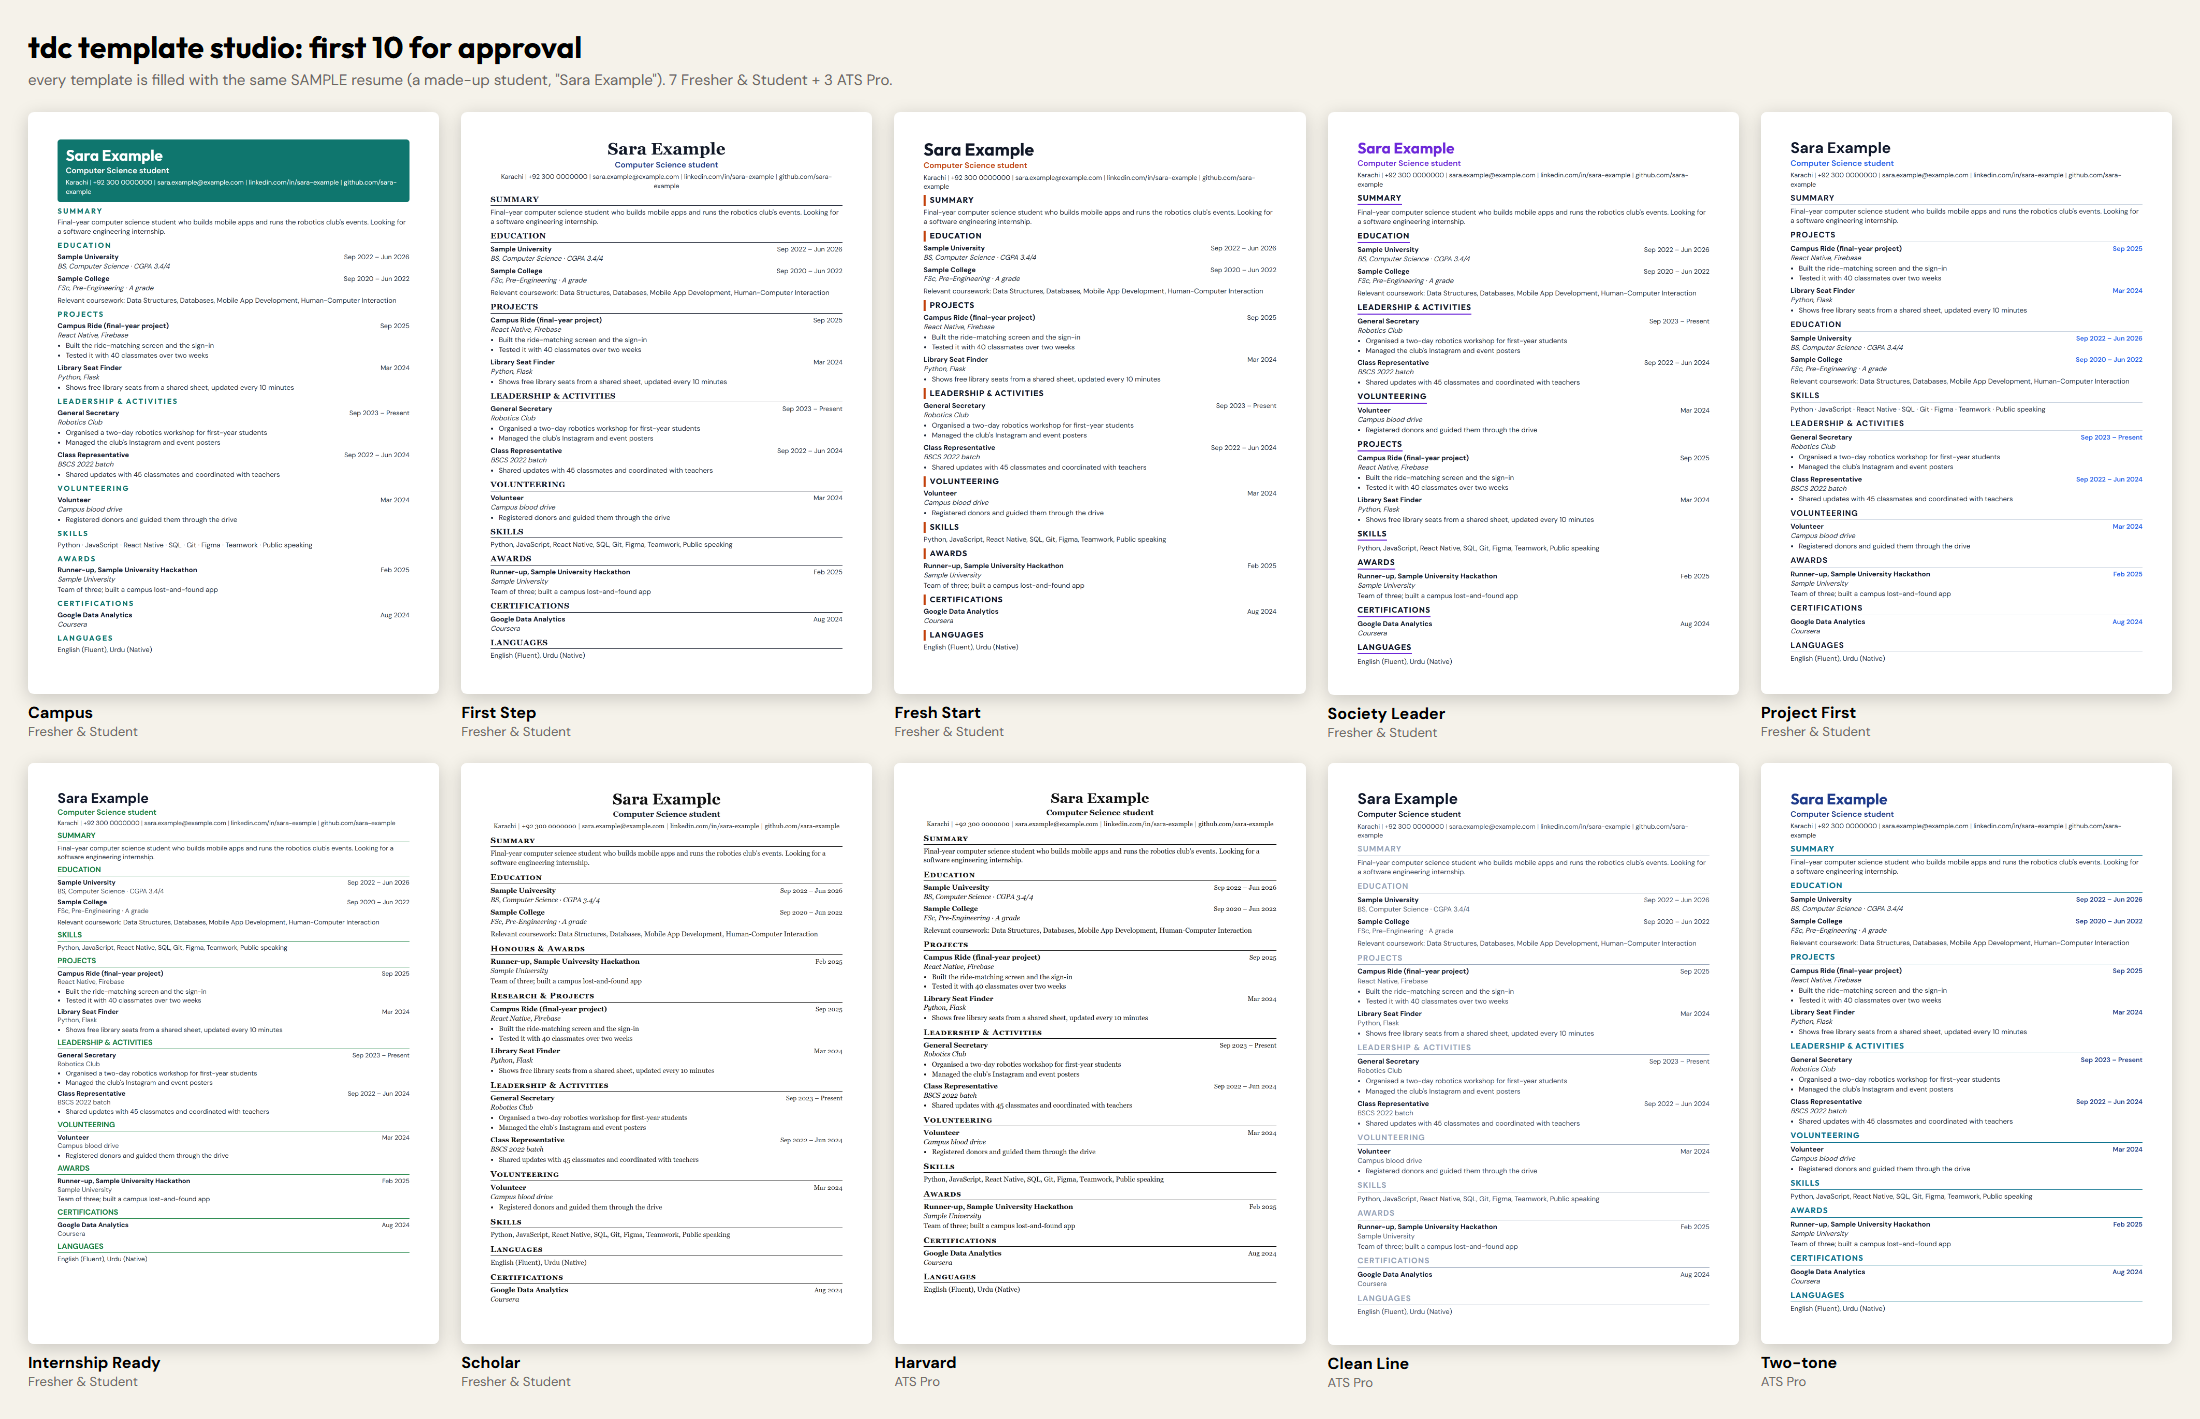
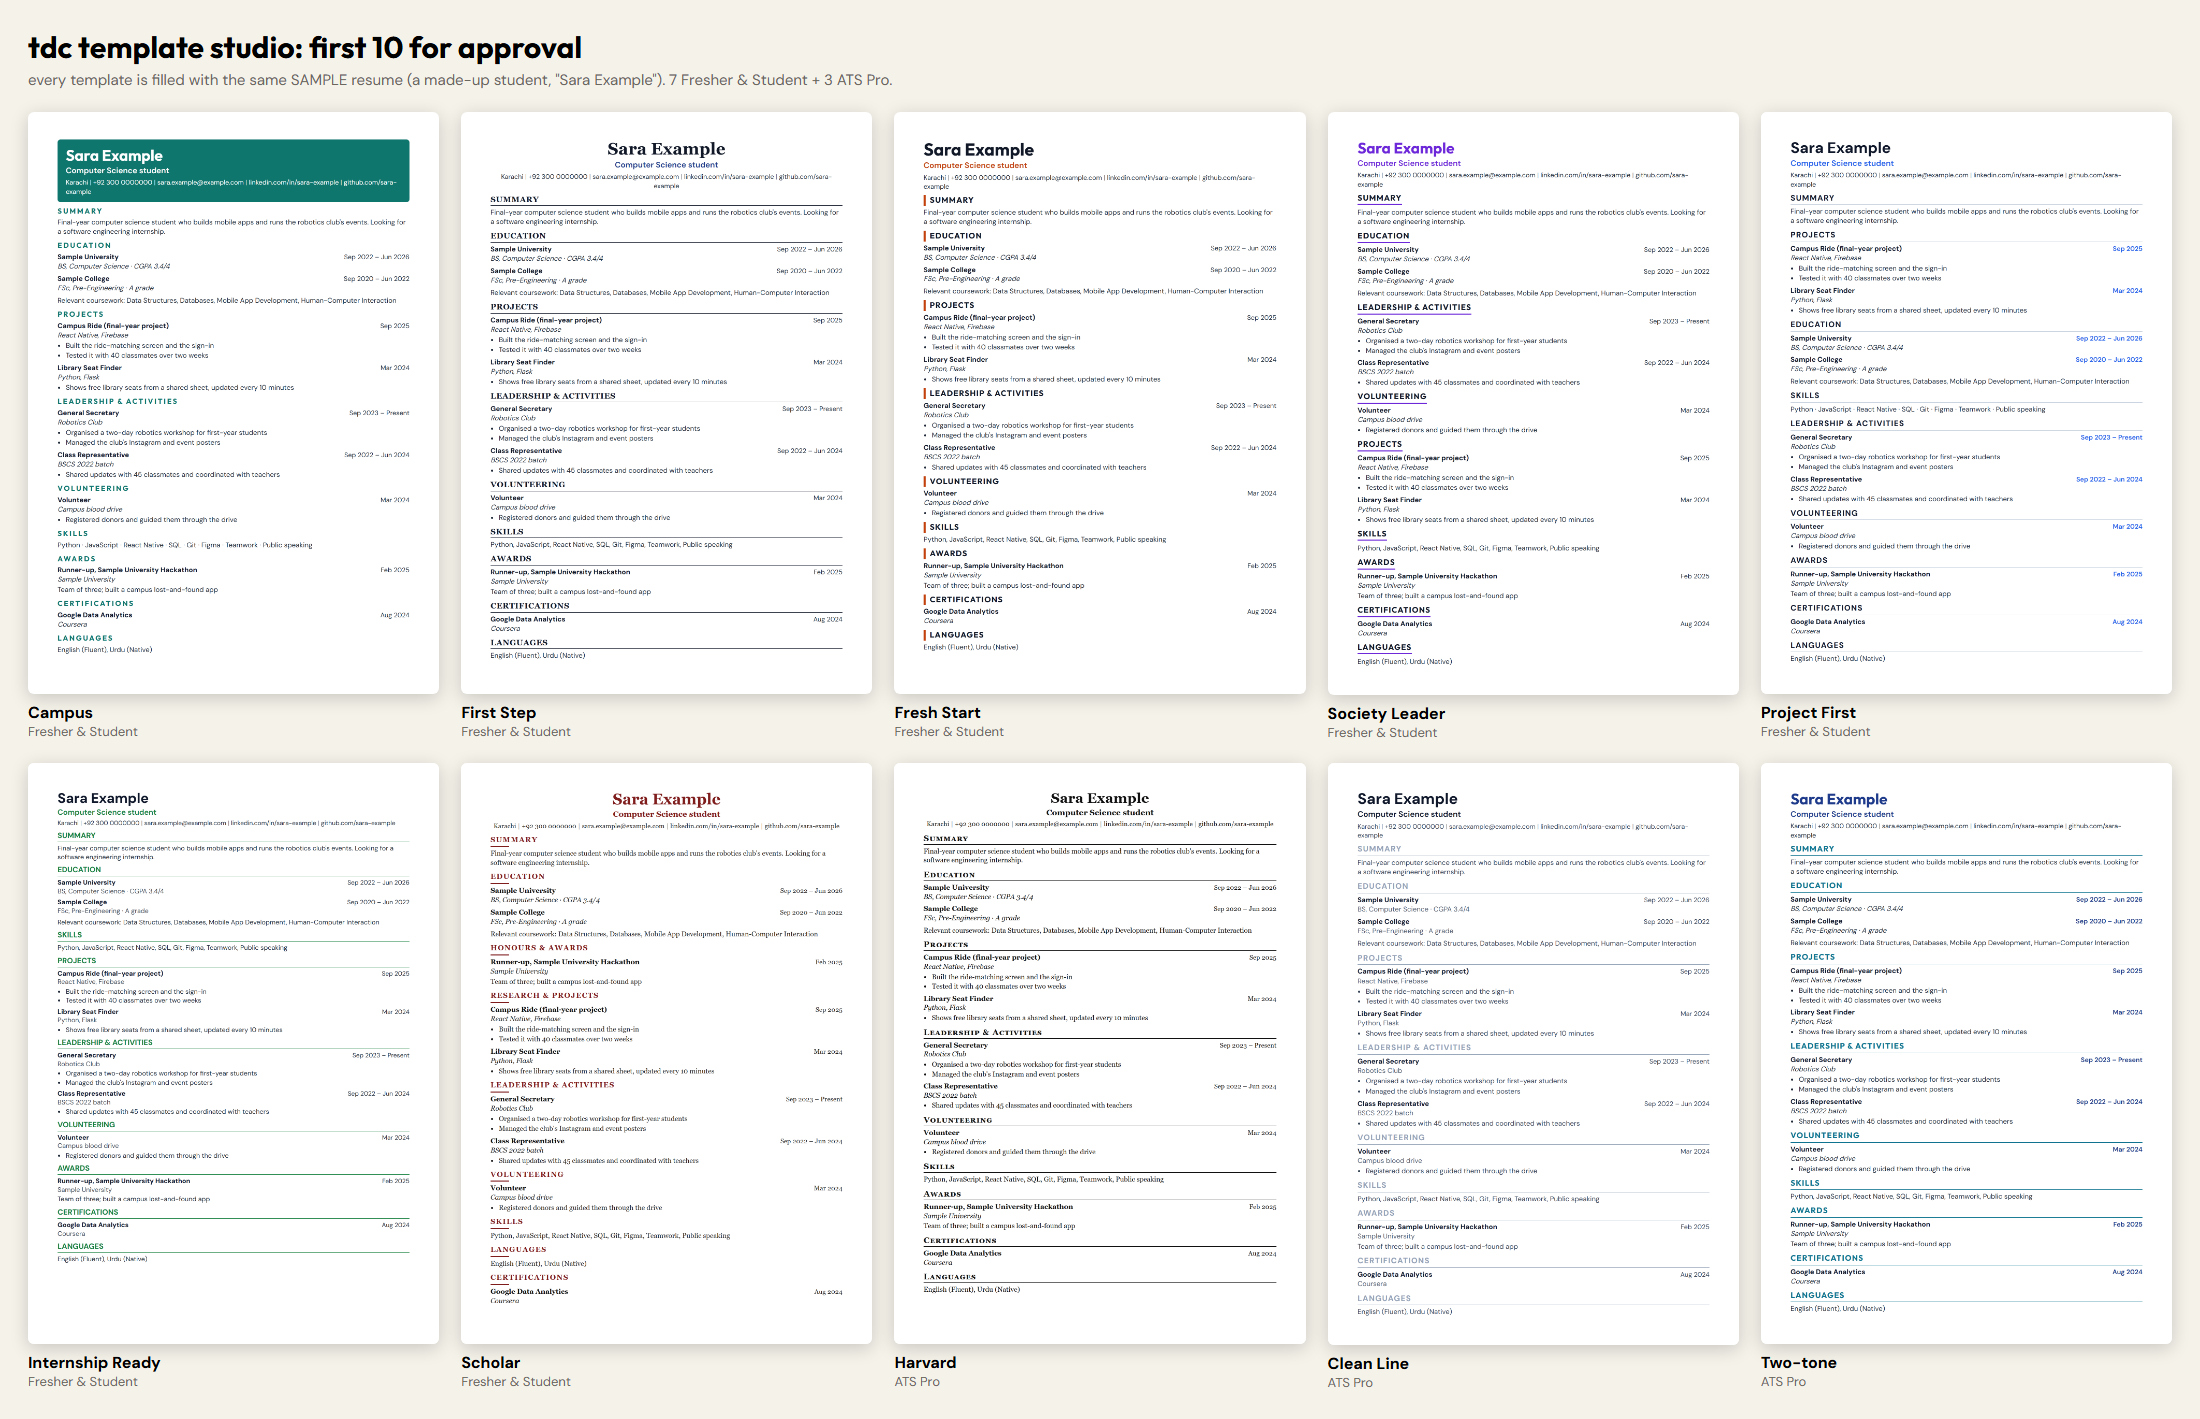
P3c: Scholar gets its own look (owner): distinct from Harvard
New optional heading style "short-rule" (letter-spaced headings in the
accent colour with a short line under them); Scholar uses it with a
subtle burgundy accent and the name in burgundy. Harvard unchanged (black,
small caps, full-width rule). Scholar's preview and the contact sheet
re-rendered. The five still byte-identical (395/395).

Changed region(s): [[0.2164, 0.6512, 0.3091, 0.9302], [0.2782, 0.5581, 0.34, 0.5891], [0.2164, 0.5891, 0.2473, 0.6202]]

diff --git a/app/src/services/templateService.js b/app/src/services/templateService.js
@@ -13,7 +13,7 @@
 // (tests/app/resume-templates.test.js compares 395 frozen outputs). New templates are config in ./templates/library.js.
 //   theme keys (all optional): accent / heading / text (default colours), second (headings in a second colour),
 //   band (the header on a colour band), nameAccent, h2x ("bar-left" | "caps-spaced" | "thin-rule" | "smallcaps-rule"
-//   | "underline-accent"), dateAccent, subPlain, margin ("12mm 13mm"), order (section order), headings ({ key: title }),
+//   | "underline-accent" | "short-rule"), dateAccent, subPlain, margin ("12mm 13mm"), order (section order), headings ({ key: title }),
 //   skillSep (" · ")
 
 import { LIBRARY } from './templates/library';
@@ -242,6 +242,8 @@ function extras(look, { accent, heading, text }) {
     'thin-rule': `h2 { border-bottom: 0.75px solid ${look.second || '#CBD5E1'}; padding-bottom: 2px; }`,
     'smallcaps-rule': `h2 { text-transform: none; font-variant: small-caps; letter-spacing: 0.06em; color: ${heading}; border-bottom: 1px solid ${heading}; padding-bottom: 1px; font-size: ${look.size + 2}pt; }`,
     'underline-accent': `h2 { display: inline-block; border-bottom: 2.5px solid ${accent}; padding-bottom: 1px; }`,
+    // a short accent line under the heading (no full-width rule): Scholar
+    'short-rule': `h2 { border-bottom: none; color: ${accent}; letter-spacing: 0.1em; font-size: ${look.size + 0.5}pt; } h2::after { content: ''; display: block; width: 36px; border-bottom: 2px solid ${accent}; margin-top: 3px; }`,
   }[look.h2x];
   if (h2x) out.push(h2x);
   if (look.dateAccent) out.push(`.d { color: ${accent}; font-weight: 600; }`);

diff --git a/app/src/services/templates/library.js b/app/src/services/templates/library.js
@@ -46,7 +46,8 @@ export const LIBRARY = [
   },
   {
     id: 'scholar', name: 'Scholar', collection: 'fresher', description: 'academic: education, awards and research first',
-    look: { ...BASE, body: SERIF, head: SERIF, nameSize: 22, align: 'center', h2x: 'smallcaps-rule', accent: '#1F2937', heading: '#111111', text: '#222222',
+    // owner: distinct from Harvard: a short burgundy line under letter-spaced headings, the name in burgundy
+    look: { ...BASE, body: SERIF, head: SERIF, nameSize: 22, align: 'center', h2x: 'short-rule', nameAccent: true, accent: '#7F1D1D', heading: '#111111', text: '#222222',
       order: ['education', 'awards', 'projects', 'activities', 'volunteering', 'skills', 'languages', 'certifications', 'experience'],
       headings: { projects: 'Research & Projects', awards: 'Honours & Awards' } },
   },
